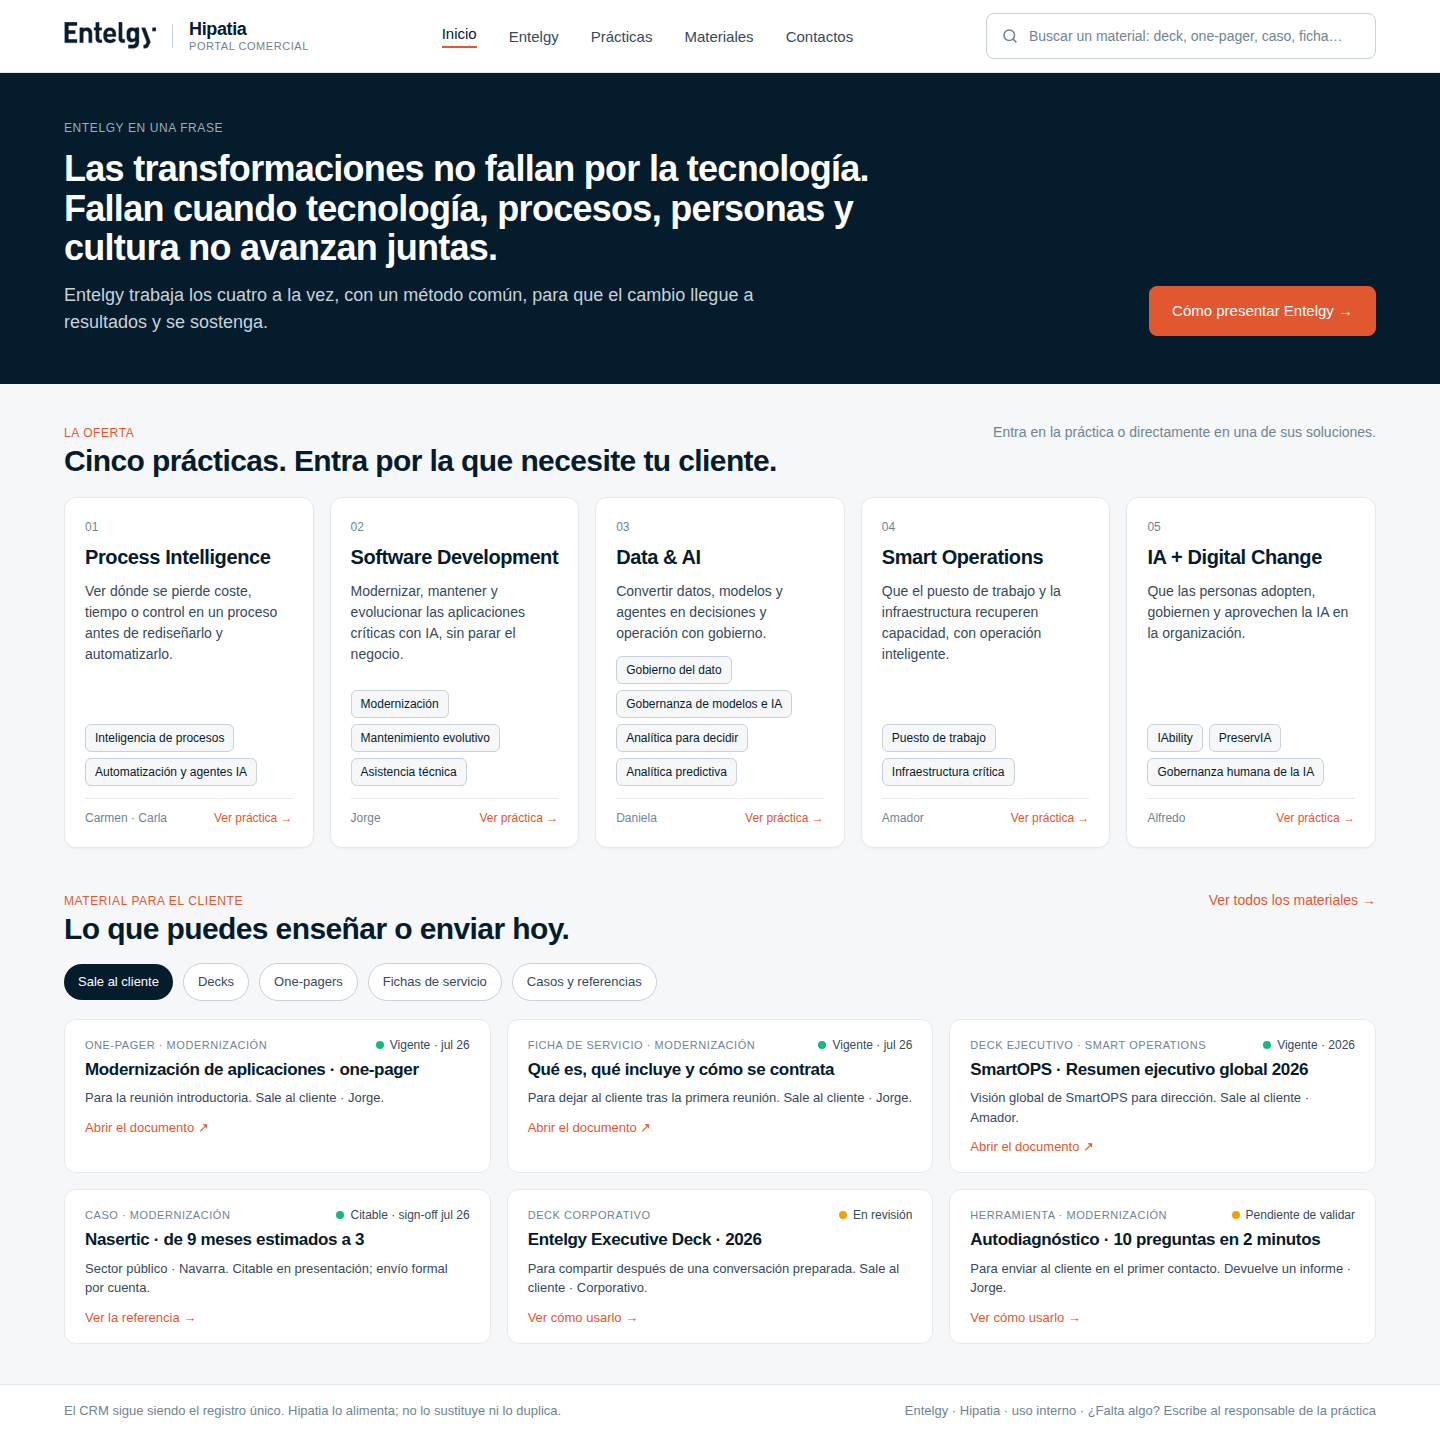
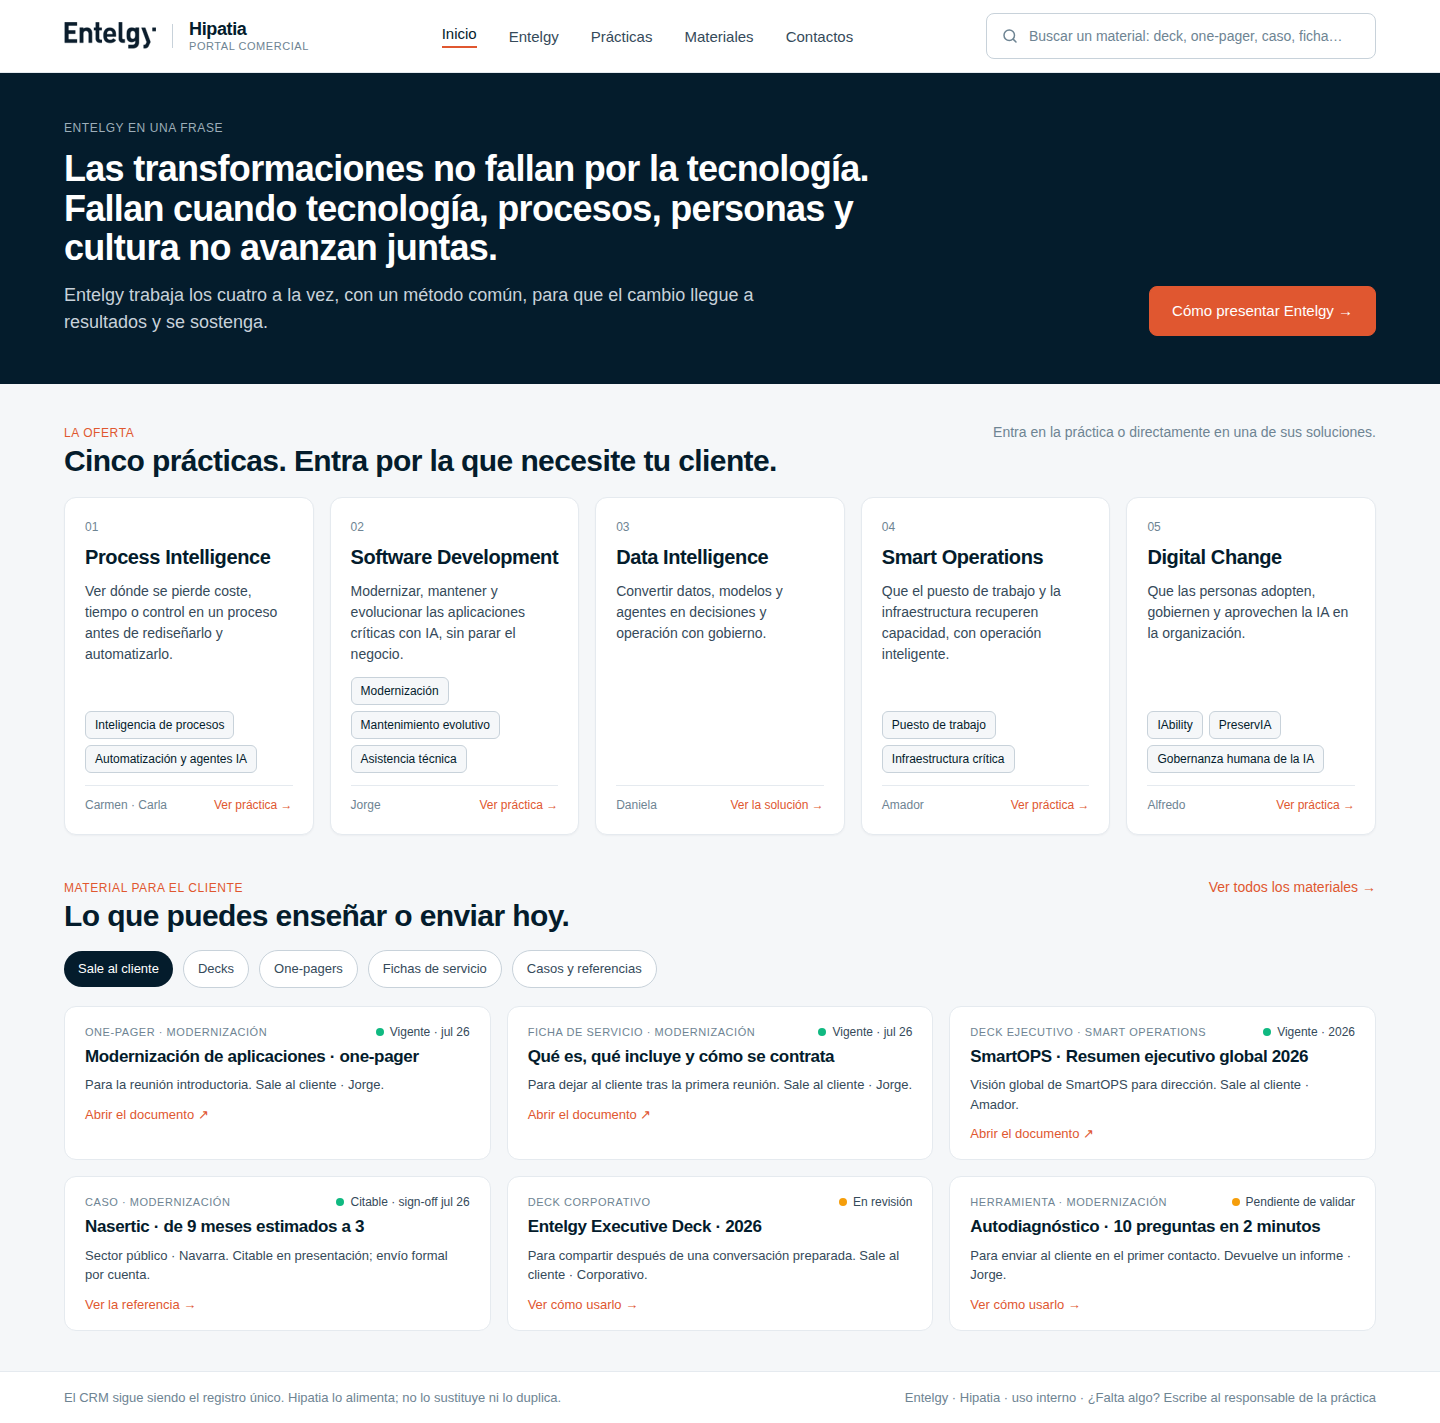
3: revisión 5 de la especificación y mockup con nombres nuevos

diff --git a/docs/mockup-portada/Main.dc.html b/docs/mockup-portada/Main.dc.html
@@ -83,11 +83,11 @@
 
       <div style="display: flex; flex-direction: column; gap: 12px; padding: 22px 20px; min-height: 250px; background: #FFFFFF; border: 1px solid #E5EAEF; border-radius: 12px; box-shadow: 0 1px 2px rgba(4, 28, 44, 0.04);">
         <span style="font-size: 12px; font-weight: 500; color: #6E8493;">03</span>
-        <span class="h" style="font-size: 20px; line-height: 1.15; color: #041C2C;">Data &amp; AI</span>
+        <span class="h" style="font-size: 20px; line-height: 1.15; color: #041C2C;">Data Intelligence</span>
         <p style="margin: 0; font-size: 14px; line-height: 1.5; color: #354A5A; flex-grow: 1;">Convertir datos, modelos y agentes en decisiones y operación con gobierno.</p>
-        <div style="display: flex; flex-wrap: wrap; gap: 6px;"><a href="#" style="display: inline-flex; align-items: center; height: 26px; padding: 0 9px; border: 1px solid #C8D2DA; border-radius: 6px; background: #F5F7F9; color: #041C2C; font-size: 12px; font-weight: 500; white-space: nowrap;">Gobierno del dato</a><a href="#" style="display: inline-flex; align-items: center; height: 26px; padding: 0 9px; border: 1px solid #C8D2DA; border-radius: 6px; background: #F5F7F9; color: #041C2C; font-size: 12px; font-weight: 500; white-space: nowrap;">Gobernanza de modelos e IA</a><a href="#" style="display: inline-flex; align-items: center; height: 26px; padding: 0 9px; border: 1px solid #C8D2DA; border-radius: 6px; background: #F5F7F9; color: #041C2C; font-size: 12px; font-weight: 500; white-space: nowrap;">Analítica para decidir</a><a href="#" style="display: inline-flex; align-items: center; height: 26px; padding: 0 9px; border: 1px solid #C8D2DA; border-radius: 6px; background: #F5F7F9; color: #041C2C; font-size: 12px; font-weight: 500; white-space: nowrap;">Analítica predictiva</a></div>
+        
         <div style="display: flex; align-items: center; justify-content: space-between; gap: 8px; font-size: 12px; color: #6E8493; padding-top: 12px; border-top: 1px solid #E5EAEF;">
-          <span>Daniela</span><a href="#" style="font-weight: 500;">Ver práctica →</a>
+          <span>Daniela</span><a href="#" style="font-weight: 500;">Ver la solución →</a>
         </div>
       </div>
 
@@ -103,7 +103,7 @@
 
       <div style="display: flex; flex-direction: column; gap: 12px; padding: 22px 20px; min-height: 250px; background: #FFFFFF; border: 1px solid #E5EAEF; border-radius: 12px; box-shadow: 0 1px 2px rgba(4, 28, 44, 0.04);">
         <span style="font-size: 12px; font-weight: 500; color: #6E8493;">05</span>
-        <span class="h" style="font-size: 20px; line-height: 1.15; color: #041C2C;">IA + Digital Change</span>
+        <span class="h" style="font-size: 20px; line-height: 1.15; color: #041C2C;">Digital Change</span>
         <p style="margin: 0; font-size: 14px; line-height: 1.5; color: #354A5A; flex-grow: 1;">Que las personas adopten, gobiernen y aprovechen la IA en la organización.</p>
         <div style="display: flex; flex-wrap: wrap; gap: 6px;"><a href="#" style="display: inline-flex; align-items: center; height: 26px; padding: 0 9px; border: 1px solid #C8D2DA; border-radius: 6px; background: #F5F7F9; color: #041C2C; font-size: 12px; font-weight: 500; white-space: nowrap;">IAbility</a><a href="#" style="display: inline-flex; align-items: center; height: 26px; padding: 0 9px; border: 1px solid #C8D2DA; border-radius: 6px; background: #F5F7F9; color: #041C2C; font-size: 12px; font-weight: 500; white-space: nowrap;">PreservIA</a><a href="#" style="display: inline-flex; align-items: center; height: 26px; padding: 0 9px; border: 1px solid #C8D2DA; border-radius: 6px; background: #F5F7F9; color: #041C2C; font-size: 12px; font-weight: 500; white-space: nowrap;">Gobernanza humana de la IA</a></div>
         <div style="display: flex; align-items: center; justify-content: space-between; gap: 8px; font-size: 12px; color: #6E8493; padding-top: 12px; border-top: 1px solid #E5EAEF;">

diff --git a/docs/mockup-portada/preview.html b/docs/mockup-portada/preview.html
@@ -83,11 +83,11 @@
 
       <div style="display: flex; flex-direction: column; gap: 12px; padding: 22px 20px; min-height: 250px; background: #FFFFFF; border: 1px solid #E5EAEF; border-radius: 12px; box-shadow: 0 1px 2px rgba(4, 28, 44, 0.04);">
         <span style="font-size: 12px; font-weight: 500; color: #6E8493;">03</span>
-        <span class="h" style="font-size: 20px; line-height: 1.15; color: #041C2C;">Data &amp; AI</span>
+        <span class="h" style="font-size: 20px; line-height: 1.15; color: #041C2C;">Data Intelligence</span>
         <p style="margin: 0; font-size: 14px; line-height: 1.5; color: #354A5A; flex-grow: 1;">Convertir datos, modelos y agentes en decisiones y operación con gobierno.</p>
-        <div style="display: flex; flex-wrap: wrap; gap: 6px;"><a href="#" style="display: inline-flex; align-items: center; height: 26px; padding: 0 9px; border: 1px solid #C8D2DA; border-radius: 6px; background: #F5F7F9; color: #041C2C; font-size: 12px; font-weight: 500; white-space: nowrap;">Gobierno del dato</a><a href="#" style="display: inline-flex; align-items: center; height: 26px; padding: 0 9px; border: 1px solid #C8D2DA; border-radius: 6px; background: #F5F7F9; color: #041C2C; font-size: 12px; font-weight: 500; white-space: nowrap;">Gobernanza de modelos e IA</a><a href="#" style="display: inline-flex; align-items: center; height: 26px; padding: 0 9px; border: 1px solid #C8D2DA; border-radius: 6px; background: #F5F7F9; color: #041C2C; font-size: 12px; font-weight: 500; white-space: nowrap;">Analítica para decidir</a><a href="#" style="display: inline-flex; align-items: center; height: 26px; padding: 0 9px; border: 1px solid #C8D2DA; border-radius: 6px; background: #F5F7F9; color: #041C2C; font-size: 12px; font-weight: 500; white-space: nowrap;">Analítica predictiva</a></div>
+        
         <div style="display: flex; align-items: center; justify-content: space-between; gap: 8px; font-size: 12px; color: #6E8493; padding-top: 12px; border-top: 1px solid #E5EAEF;">
-          <span>Daniela</span><a href="#" style="font-weight: 500;">Ver práctica →</a>
+          <span>Daniela</span><a href="#" style="font-weight: 500;">Ver la solución →</a>
         </div>
       </div>
 
@@ -103,7 +103,7 @@
 
       <div style="display: flex; flex-direction: column; gap: 12px; padding: 22px 20px; min-height: 250px; background: #FFFFFF; border: 1px solid #E5EAEF; border-radius: 12px; box-shadow: 0 1px 2px rgba(4, 28, 44, 0.04);">
         <span style="font-size: 12px; font-weight: 500; color: #6E8493;">05</span>
-        <span class="h" style="font-size: 20px; line-height: 1.15; color: #041C2C;">IA + Digital Change</span>
+        <span class="h" style="font-size: 20px; line-height: 1.15; color: #041C2C;">Digital Change</span>
         <p style="margin: 0; font-size: 14px; line-height: 1.5; color: #354A5A; flex-grow: 1;">Que las personas adopten, gobiernen y aprovechen la IA en la organización.</p>
         <div style="display: flex; flex-wrap: wrap; gap: 6px;"><a href="#" style="display: inline-flex; align-items: center; height: 26px; padding: 0 9px; border: 1px solid #C8D2DA; border-radius: 6px; background: #F5F7F9; color: #041C2C; font-size: 12px; font-weight: 500; white-space: nowrap;">IAbility</a><a href="#" style="display: inline-flex; align-items: center; height: 26px; padding: 0 9px; border: 1px solid #C8D2DA; border-radius: 6px; background: #F5F7F9; color: #041C2C; font-size: 12px; font-weight: 500; white-space: nowrap;">PreservIA</a><a href="#" style="display: inline-flex; align-items: center; height: 26px; padding: 0 9px; border: 1px solid #C8D2DA; border-radius: 6px; background: #F5F7F9; color: #041C2C; font-size: 12px; font-weight: 500; white-space: nowrap;">Gobernanza humana de la IA</a></div>
         <div style="display: flex; align-items: center; justify-content: space-between; gap: 8px; font-size: 12px; color: #6E8493; padding-top: 12px; border-top: 1px solid #E5EAEF;">

diff --git a/docs/Auditoria_y_especificacion_Hipatia_v3.md b/docs/Auditoria_y_especificacion_Hipatia_v3.md
@@ -8,6 +8,9 @@
 
 ## 0 · Lo que se decide
 
+> Revisión 5 (3 sep, tarde): nombres y taxonomía definitivos de la v3. «Data & AI» pasa a **Data Intelligence** y «IA + Digital Change» pasa a **Digital Change** (petición de Entelgy de quitar «IA» de los nombres de práctica; los productos IAbility, PreservIA y OGH-IA conservan el suyo). Data Intelligence es una **única solución** con el nombre de la práctica y sus cuatro antiguas puertas como capacidades; el catálogo queda en **once soluciones** (PI 2 · SD 3 · DI 1 · SO 2 · DC 3). Donde este documento diga «doce soluciones», «Data & AI» o «IA + Digital Change», léase con esta revisión.
+
+
 **El problema.** Hay dos propuestas de portal y ninguna vale sola. La primera (hipatia2) tiene la sustancia: contenido validado con Jorge, un recorrido que enseña de verdad cómo vende un comercial, y una respuesta ya construida al feedback del Menti. Pero es un demostrador lineal de una sola práctica, con agentes simulados y una estructura que no escala a las cinco prácticas sin repetirlo todo. La segunda (hipatia-oportunidades) tiene la arquitectura correcta: relato corporativo, cinco prácticas con subprácticas, biblioteca única y espacio de oportunidad, con reglas de gobierno bien pensadas. Pero está vacía donde importa: el contenido de Modernización es genérico, las referencias que Jorge firmó en julio aparecen degradadas a "en revisión", los guiones son de plantilla y la construcción técnica (dieciséis capas de parches) no es una base sobre la que seguir.
 
 **La decisión que propongo.** La v3 toma la arquitectura, la navegación y las reglas de gobierno de la propuesta 2, y las llena con la sustancia, los patrones de página y la honestidad operativa de la propuesta 1. Modernización de Aplicaciones se construye completa como práctica de referencia, con todo su contenido validado; las otras cuatro prácticas se montan con la misma plantilla y el contenido que ya existe en el hub. Se reconstruye desde cero como sitio estático limpio, no se parchea ninguna de las dos.
@@ -226,7 +229,7 @@ Tres niveles y ninguno más. Cabecera única con cuatro destinos (Inicio · Ente
 
 Regla general: cada página tiene los mismos bloques en el mismo orden, y responde primero a «qué vendemos y por qué Entelgy» y después a «qué le doy al cliente». Lo que no responde a ninguna de las dos va plegado.
 
-**Portada.** Una pantalla, sin scroll largo. Arriba, Entelgy en una frase (el «60 segundos» del relato de P2) con enlace a `/entelgy`. En medio, las cinco prácticas como cinco tarjetas iguales: nombre, propuesta de valor en una línea y, en la parte baja de la tarjeta, sus soluciones como pequeñas cajas clicables que llevan directamente a la página de cada solución (matiz de Susana, 3 sep); debajo de la línea, el responsable y «ver práctica». Debajo, el buscador de materiales con cuatro accesos rápidos (decks para cliente · one-pagers · fichas de servicio · casos) y las seis piezas más usadas o más recientes. Sin situaciones, sin contadores de materiales que no estén validados, sin cabecera de «demostrador» salvo mientras lo sea.
+**Portada.** Una pantalla, sin scroll largo. Arriba, Entelgy en una frase con enlace a `/entelgy`: una frase de verdad, dos líneas a 36 px como máximo (unos 110 caracteres), no el párrafo de 60 segundos, que vive en `/entelgy`. Las tarjetas de práctica llevan una propuesta de valor de una sola frase de hasta 90 caracteres (revisión 5, tras ver la primera build). En medio, las cinco prácticas como cinco tarjetas iguales: nombre, propuesta de valor en una línea y, en la parte baja de la tarjeta, sus soluciones como pequeñas cajas clicables que llevan directamente a la página de cada solución (matiz de Susana, 3 sep); debajo de la línea, el responsable y «ver práctica». Debajo, el buscador de materiales con cuatro accesos rápidos (decks para cliente · one-pagers · fichas de servicio · casos) y seis piezas elegidas por regla, no a mano (revisión 5, 3 sep): **una por práctica más una corporativa**. Para cada práctica, la pieza que cumple `sale_al_cliente = sí` y `estado = vigente`, con `momento = reunión` si la hay, y entre varias la de fecha de revisión más reciente; la sexta es el deck corporativo vigente. Si una práctica no tiene ninguna pieza que cumpla la regla, su tarjeta dice «material para cliente en preparación · dueño» y enlaza a la práctica: así la portada nunca enseña seis piezas de Modernización y cuatro prácticas invisibles. Las referencias no entran en este bloque (no son «para enviar»); viven bajo el acceso rápido «casos». Cuando exista medición de uso, la regla pasa a «la más usada del último mes» por práctica; hasta entonces, la más reciente, y el rótulo del bloque lo dice: «Lo más reciente, por práctica». Sin situaciones, sin contadores de materiales que no estén validados, sin cabecera de «demostrador» salvo mientras lo sea.
 
 **Relato corporativo.** El de P2 tal cual (60 segundos, cuatro entradas, método, OTG, selector general / LATAM), con el material de apoyo como fichas de la biblioteca con su estado real.
 
@@ -308,7 +311,7 @@ Sitio estático: una carpeta por ruta con `index.html`, un `styles.css`, un `app
 
 1. **Prueba de los cinco comerciales** (§0.1): cinco personas que no lo han visto reciben la URL sin explicación y resuelven los tres encargos; nadie pregunta cómo funciona.
 2. Desde la portada, cualquier solución está a dos clics y cualquier material para cliente a tres, sin acreditarse ni elegir nada antes.
-3. Las cinco prácticas y las doce soluciones tienen página con los mismos bloques en el mismo orden; donde no hay contenido validado se ve «en preparación · dueño · fecha», no texto de relleno.
+3. Las cinco prácticas y las once soluciones tienen página con los mismos bloques en el mismo orden; donde no hay contenido validado se ve «en preparación · dueño · fecha», no texto de relleno.
 4. Modernización conserva íntegros: propuesta (tarjeta), seis casos citables con redacción y sign-off, material por momento con one-pager, ficha de servicio, correo de apertura y autodiagnóstico enlazados, y «para prepararte» con pitch por rol, objeciones, preguntas y dossier.
 5. Toda pieza muestra uso, estado con fecha, dueño; ninguna cifra o caso aparece como citable sin sign-off registrado; ningún enlace roto (los pendientes dicen pendiente).
 6. Ninguna pantalla afirma que un agente, un envío o una integración funcionan.

diff --git a/docs/mensaje-ajustes-revision-5.md b/docs/mensaje-ajustes-revision-5.md
@@ -1,0 +1,63 @@
+Ajustes tras la primera build de la v3 (revisión 5 de la especificación, 3 sep). Aplícalos
+en tu rama del PR #1, un commit por bloque, y vuelve a pasar check-data.js, build.js y
+medir.js al final. Dime antes de decidir en lo marcado. He actualizado
+docs/Auditoria_y_especificacion_Hipatia_v3.md (§0 nota de revisión 5, §6.3) y el mockup
+de docs/mockup-portada/ con estos cambios.
+
+A · NOMBRES Y TAXONOMÍA (decisión cerrada)
+   - «Data & AI» pasa a llamarse «Data Intelligence»; «IA + Digital Change» pasa a
+     «Digital Change». Cambia nombre, id y ruta: /practicas/data-intelligence/ y
+     /practicas/digital-change/. Los productos IAbility, PreservIA y Oficina de Gobernanza
+     Humana de la IA conservan su nombre.
+   - Data Intelligence es una única solución con el mismo nombre que la práctica. Sus
+     cuatro antiguas puertas (gobierno del dato, gobernanza de modelos, analítica para
+     decidir, analítica predictiva) pasan a ser sus capacidades, dentro de la página de
+     solución. En la tarjeta de portada no lleva cajitas y el enlace dice «Ver la solución →».
+   - Catálogo: 11 soluciones (PI 2 · SD 3 · DI 1 · SO 2 · DC 3). Ajusta el criterio 3 de
+     §6.8 en medir.js.
+   - Commit: «v3: nombres Data Intelligence y Digital Change, Data como solución única»
+
+B · CITABILIDAD (corrección de datos, no de diseño)
+   - Los seis casos de Modernización (NASERTIC, UNED, DGOJ, AESA, H10, MICIU/AEI) tienen
+     sign-off del PM del 16 jul 2026 (paquete-jorge/01 y 03). En data/materiales.json
+     deben llevar citable: "citable" y sign_off: {quien: "Jorge Herrero", fecha:
+     "2026-07-16"}, y en pantalla «citable · sign-off jul 2026» más la leyenda «citable
+     en presentación · el envío formal al cliente se autoriza por cuenta». Ahora salen
+     como «con validación» y eso deshace el sign-off.
+   - El caso es citable aunque su cifra esté en verificación: H10 (~90 %), AESA (+80 %)
+     y MICIU (+40 %) llevan la marca «cifra en verificación» sobre la cifra, no sobre
+     el caso. Corner WK (2023) sigue en «confirmar por cuenta».
+   - Commit: «v3: seis casos de Modernización citables con sign-off»
+
+C · PORTADA
+   1. Título: una frase de dos líneas a 36 px, ≤ 110 caracteres. Usa la del mockup
+      («Las transformaciones no fallan por la tecnología. Fallan cuando tecnología,
+      procesos, personas y cultura no avanzan juntas.»). El párrafo de 60 segundos se
+      queda en /entelgy. Quita «Human driven technology.» del hero.
+   2. Tarjetas de práctica: propuesta de valor de una sola frase, ≤ 90 caracteres; usa
+      las cinco del mockup. Cajitas de soluciones en Roboto (no mono), dos por línea
+      cuando quepan. Responsable y «Ver práctica →» en una sola línea.
+   3. Bloque «Material para el cliente»: regla «una por práctica + deck corporativo».
+      Para cada práctica, la pieza con sale_al_cliente = sí y estado = vigente, con
+      momento = reunión si la hay, y entre varias la de fecha de revisión más reciente;
+      la sexta es el deck corporativo vigente. Si una práctica no tiene ninguna, su
+      tarjeta dice «material para cliente en preparación · dueño: <SM>» y enlaza a la
+      práctica. Las referencias no entran en este bloque (viven bajo el acceso rápido
+      «Casos»). Rótulo del bloque: «Lo más reciente, por práctica».
+   4. Chips de estado en las tarjetas: solo dos (uso y vigencia), sin duplicar el punto de
+      color; el chip «enlace pendiente» solo en la ficha, no en la tarjeta.
+   - Commit: «v3: portada — título, tarjetas y regla de material por práctica»
+
+D · DOS COMPROBACIONES (responde antes de tocar nada)
+   1. ¿Siguen en public/ los materiales HTML de Modernización
+      (modernizacion/materiales/onepager-modernizacion.html y ficha-modernizacion.html)
+      y el autodiagnóstico (autodiagnostico/grupo-lantia/), y sus fichas enlazan a ellos?
+      Si se fueron con la retirada del demostrador, recupéralos de main.
+   2. La biblioteca tiene 31 piezas y la propuesta 2 catalogaba 74 en
+      docs/fuentes-v3/hipatia-data-core.js. Dime cuáles no cargaste y por qué. Salvo que
+      haya una razón, carga el resto con estado «revisar», su dueño y sin fecha inventada:
+      la promesa a MA es «la oferta y el material», y sin ellas la biblioteca enseña
+      sobre todo Modernización.
+
+Al terminar: build completo, medir.js en verde, PDF de la portada a 1440 px en
+docs/medicion/ para que lo revise Susana, y actualiza el PR.
